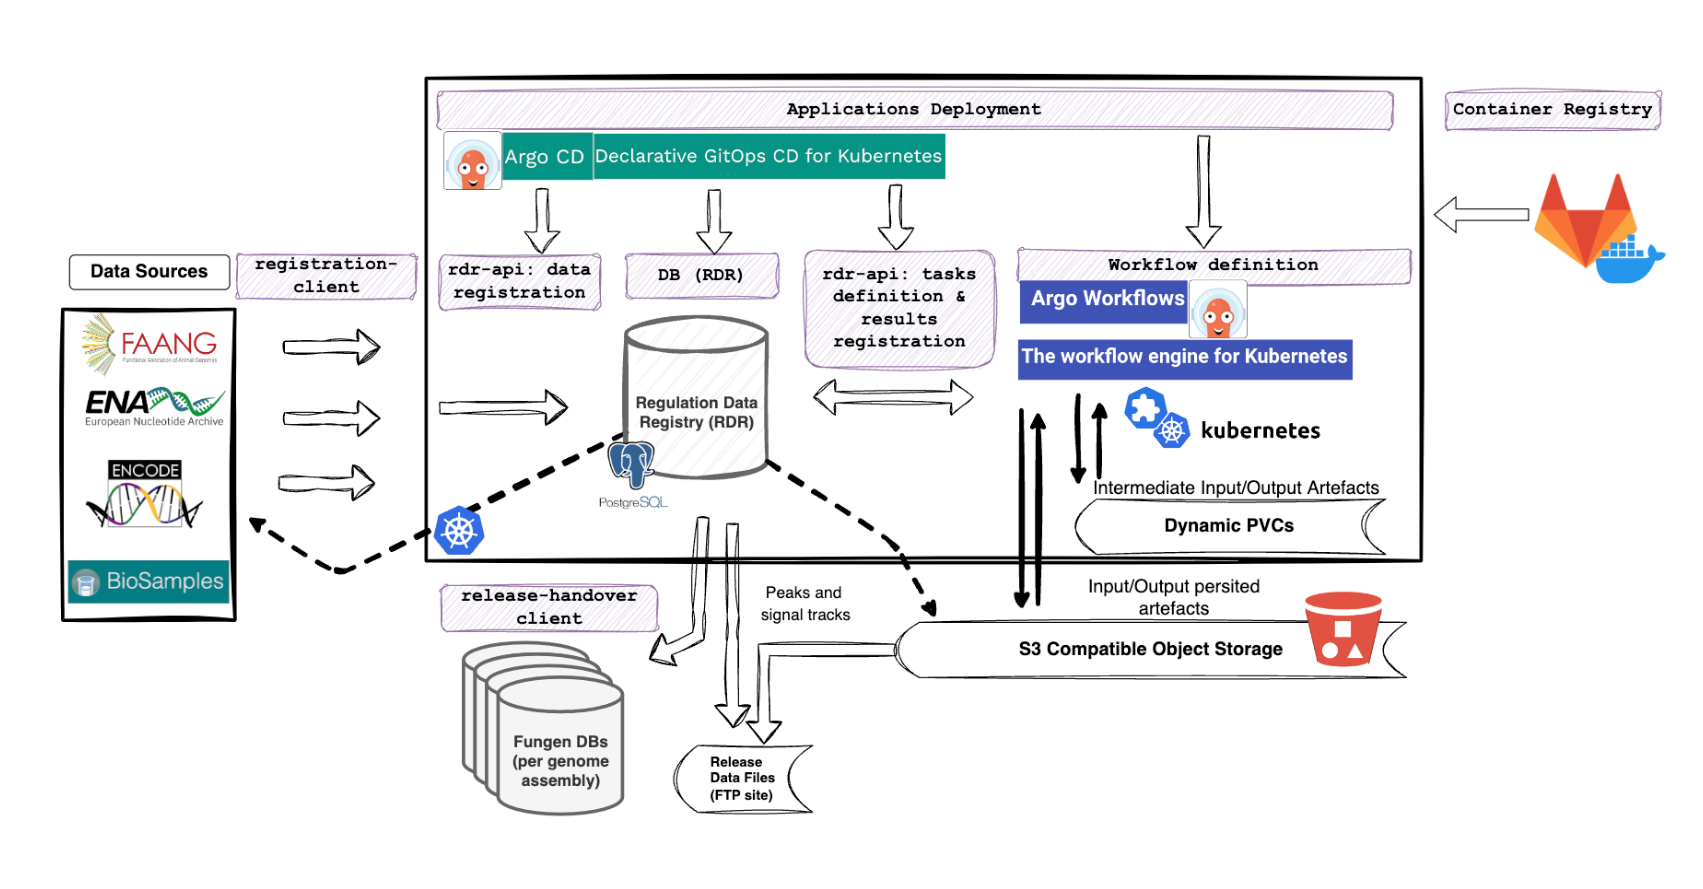
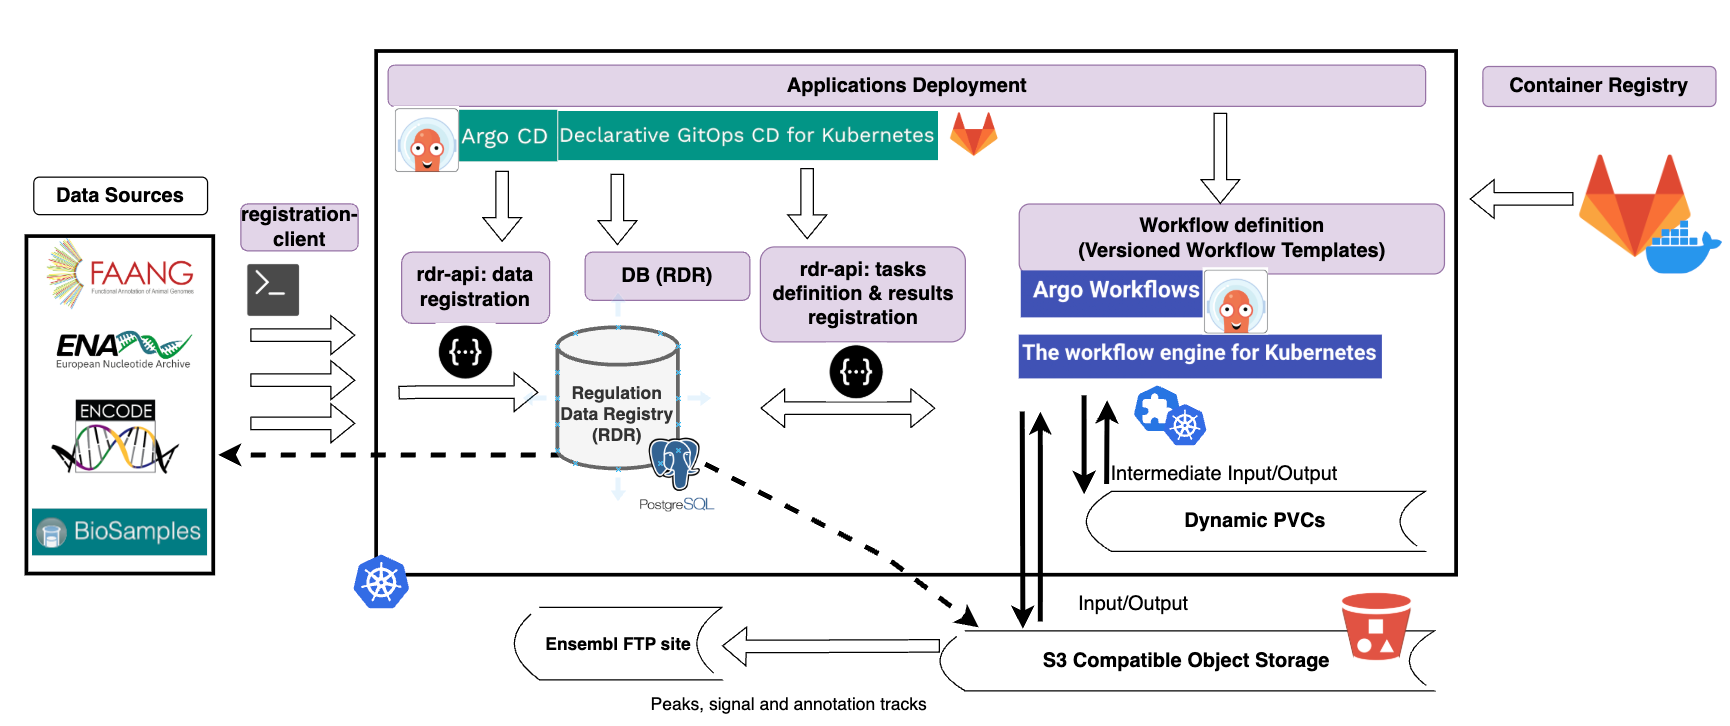
Update README

Changed region(s): [[0.0, 0.0606, 0.9959, 1.0]]

diff --git a/README.md b/README.md
@@ -1,10 +1,44 @@
 <div style="text-align: justify">
 
-# Ensembl Regulation Workflows
+# Ensembl Regulation primary processing workflows
 
 Cloud-native approach to orchestrate the data processing of sequencing reads from genomic assays (ATAC-seq,
-DNase-seq, and ChIP-seq) and generate peaks and signal files that summarise the enriched regions across a genome. We
-use the results of our primary processing as input to identify/annotate potential regulatory regions.
+DNase-seq, and ChIP-seq) and generate peaks and signal files that summarise the enriched regions across a genome. 
+
+The results of this primary analysis are used to produce our final annotation of regulatory features 
+([Regulatory build](https://regulation.ensembl.org/help/regulatory_build))
+
+## Primary Processing pipeline overview
+
+![PipelineDataFlow](pipeline_data_flow.png)
+
+
+### Entry-point workflows
+
+Each workflow has a different resource usage profile. Separating them allows us to scale independently and better control the resources allocated when
+submitting work in batches. For example, in OpenStack, we can allocate a Kubernetes node group with the execution
+profile that best fits the requirements for each workflow type.
+
+Splitting the work in these modules allows us to iterate and deliver faster. For example, we can start
+processing the data and generate alignment files from the short-read-mapping workflow while still defining the
+best set of parameters for peak-calling when introducing a species/dataset.
+
+Bellow we describe the main workflows that we have implemented so far.
+ 
+- **Pre-processing and Alignment** [[Submit instructions](workflow-templates/alignment/README.md/); [Data Flow Diagram](workflow-templates/alignment/README.md)]
+- **Genrich p/q values generation**
+- **Peak-calling**
+- **Signal generation**
+- **Motif mapping**
+
+### Auxiliary Workflows
+
+#### Genome Index Build
+
+#### Genome mask generation
+
+#### Export peaks
+
 
 ## Architecture Overview
 
@@ -25,21 +59,22 @@ e.g., [Workflow](https://argo-workflows.readthedocs.io/en/latest/workflow-concep
 [WorkflowTemplate](https://argo-workflows.readthedocs.io/en/latest/workflow-templates/)).
 A-Wfs' CRDs enable the definition of complex/robust data flows in a declarative way while providing
 workflow-engine-expected features (e.g., [retry strategies](https://argo-workflows.readthedocs.io/en/latest/retries/),
-[conditional execution](https://argo-workflows.readthedocs.io/en/latest/walk-through/conditionals/), parallelisation and
+[conditional execution](https://argo-workflows.readthedocs.io/en/latest/walk-through/conditionals/), parallelisation, and
 resource allocation control). All our primary analysis data processing is designed and implemented to take advantage
 of [A-Wfs cloud-native design principles](https://argo-workflows.readthedocs.io/en/latest/architecture/) and the
 distributed computing architecture that k8s enables.
 
-![architecture_overview.png](architecture_overview.png)
+![ArchitectureOverview](architecture_overview.png)
 
 We use sequencing data as input to our workflows; this data comes from different external archives (ENA, FAANG portal,
 ENCODE). Before kicking off processing, we structure the relevant metadata and references to the input data files in a
 relational database, called [Regulation Data Registry (RDR)](https://gitlab.ebi.ac.uk/ensreg/rdr). We use this database
-to structure consistently all metadata
-supporting different types of assays (currently, ATAC-seq; DNase-seq; ChIP-seq) and different species (10 species so
-far). We use RDR to parametrize the workflow execution, select batches of data (based on metadata dimensions and to
-respond to team-wise priorities), and link results-worth-persisting to relevant metadata (e.g., peaks to assays, and
-alignments to replicates).
+to structure consistently all metadata supporting different types of assays 
+(currently, ATAC-seq; DNase-seq; ChIP-seq) and different species. 
+
+We use RDR to parametrize the workflow execution.
+We can select batches of data based on metadata dimensions and generate task definitions to instantiate the corresponding workflows. 
+We also use RDR to register the results of our primary analysis(e.g., peaks to assays, and alignments to replicates).
 
 To register the initial sequencing data and its corresponding metadata, we have implemented a client responsible for
 requesting the information from each external archive web-API, and submitting it to an internally maintained rdr-API.
@@ -55,18 +90,21 @@ dedicated endpoints in rdr-API to retrieve a list of job definitions that match 
 choose to get all alignment job definitions for all _'Mus musculus'_ _'ATAC-seq'_ assays (more specific filters
 involving other metadata dimensions are available).
 
-To automate job execution from job definitions that we get from rdr-API, we have set up entry-point workflows (main
-workflows). These entry-point workflows include a task that requests from a rdr-API endpoint job definitions of a
-certain type (e.g., peak-calling jobs). The call to rdr-API retrieves the list of job definitions matching the query
-parameters passed by a user/operator as parameters to the entry-point workflow. With these job definitions, the workflow
-fans out and starts the subsequent work necessary to fulfil each job definition. As the workflow execution progresses,
+To trigger job execution of data registered in RDR, we use rdr-API. 
+We have set up entry-point workflows, 
+which include an initial task that will request the set of input parameters for datasets involved in a query of interest. 
+These requests are done via rdr-API endpoints, one end point per type of job (e.g., alignment jobs).
+
+The call to rdr-API retrieves the list of job definitions matching the query parameters passed by a user/operator as parameters to the entry-point workflow. 
+With these job definitions, the workflow fans out and starts the subsequent work necessary to fulfil each job definition. 
+As the workflow execution progresses,
 intermediate files shared between tasks are temporarily kept in dynamically allocated k8s Persistent Volume Claims,
 inputs from upstream workflows are fetched from S3, and outputs worth persisting go to an S3 bucket. Once the main
 workflow runs successfully, the output metadata is registered in RDR via rdr-API.
 
 We have implemented our primary analysis workflows to follow a modular approach. This modular approach has allowed us to
-group tasks with a specific concern and execution profile. For example, two of the main workflows are short-read-mapping
-and a peak-calling. The short-read mapping workflow includes tasks that benefit from multithreading while having a
+group tasks with a specific concern and execution profile. For example, two of the main workflows are alignment (short-read
+mapping) and a peak-calling. The short-read mapping workflow includes tasks that benefit from multithreading while having a
 relatively small memory footprint that is mainly dependent on the reference genome used (common node flavors for these
 tasks involve 12-16 vCPUs and 32 GB of memory). In contrast, the peak-calling
 workflow includes tasks that are more memory-intensive. The memory required for a
@@ -95,50 +133,34 @@ or days to complete and handle large files (> 10GB).
 The next sections will describe in more detail the logic involved in the main workflows, implementation details, and
 design patterns we have found useful when orchestrating the processing of our primary data.
 
-For more details about the components that integrate with our workflows, please refer to the documentation in their
-respective repositories:
+[//]: # (For more details about the components that integrate with our workflows, please refer to the documentation in their)
 
-- [workflows](https://gitlab.ebi.ac.uk/ensreg/workflows/workflow-templates) (You are here; README in progress)
-- [workflow-containers](https://gitlab.ebi.ac.uk/ensreg/workflows/container-images) (Update of image definitions:
-  pending)
-- [RDR](https://gitlab.ebi.ac.uk/ensreg/rdr)
-- [registration-client](https://gitlab.ebi.ac.uk/ensreg/regulation-registration-client)
-- [rdr-api](https://gitlab.ebi.ac.uk/ensreg/regulation-pipelines) (README Out of Date; pending deletion of code/config
-  that has been moved to other repositories)
-- [k8s-config](https://gitlab.ebi.ac.uk/ensreg/regulation-pipelines-cd) (README, recently updated; more updates in
-  progress)
-- [release-handover](https://gitlab.ebi.ac.uk/ensreg/handover)
+[//]: # (respective repositories:)
 
-*Note: There are plans to move, rename, and change the visibility of some of these repositories.*
+[//]: # ()
+[//]: # (- [workflows]&#40;https://gitlab.ebi.ac.uk/ensreg/workflows/workflow-templates&#41; &#40;You are here; README in progress&#41;)
 
-## Primary Analysis Workflows
+[//]: # (- [workflow-containers]&#40;https://gitlab.ebi.ac.uk/ensreg/workflows/container-images&#41; &#40;Update of image definitions:)
 
-### Main Workflows
+[//]: # (  pending&#41;)
 
-These workflows are the main entry-points to the compute-intensive part of the process. Each workflow has a different
-resource usage profile. Separating them allows us to scale independently and better control the resources allocated when
-submitting work in batches. For example, in OpenStack, we can allocate a Kubernetes node group with the execution
-profile that best fits the requirements for each workflow type.
+[//]: # (- [RDR]&#40;https://gitlab.ebi.ac.uk/ensreg/rdr&#41;)
 
-Splitting the work in these modules allows us to iterate and deliver faster. For example, we can start
-processing the data and generate alignment files from the short-read-mapping workflow while still defining the
-best set of parameters for peak-calling when introducing a species/dataset.
+[//]: # (- [registration-client]&#40;https://gitlab.ebi.ac.uk/ensreg/regulation-registration-client&#41;)
 
-Bellow we describe the main workflows that we have implemented so far.
+[//]: # (- [rdr-api]&#40;https://gitlab.ebi.ac.uk/ensreg/regulation-pipelines&#41; &#40;README Out of Date; pending deletion of code/config)
 
-#### Short-read Mapping
+[//]: # (  that has been moved to other repositories&#41;)
 
-#### Peak-calling
+[//]: # (- [k8s-config]&#40;https://gitlab.ebi.ac.uk/ensreg/regulation-pipelines-cd&#41; &#40;README, recently updated; more updates in)
 
-#### Signal Track Generation
+[//]: # (  progress&#41;)
 
-### Auxiliary Workflows
+[//]: # (- [release-handover]&#40;https://gitlab.ebi.ac.uk/ensreg/handover&#41;)
 
-#### Genome Assembly Index Build
+[//]: # ()
+[//]: # (*Note: There are plans to move, rename, and change the visibility of some of these repositories.*)
 
-#### Assembly mask generation
-
-####
 
 ## Design Principles
 
@@ -149,6 +171,8 @@ Bellow we describe the main workflows that we have implemented so far.
 #### Well-documented patterns
 
 #### Patterns specific to our use case
+
+
 
 </div>
 
